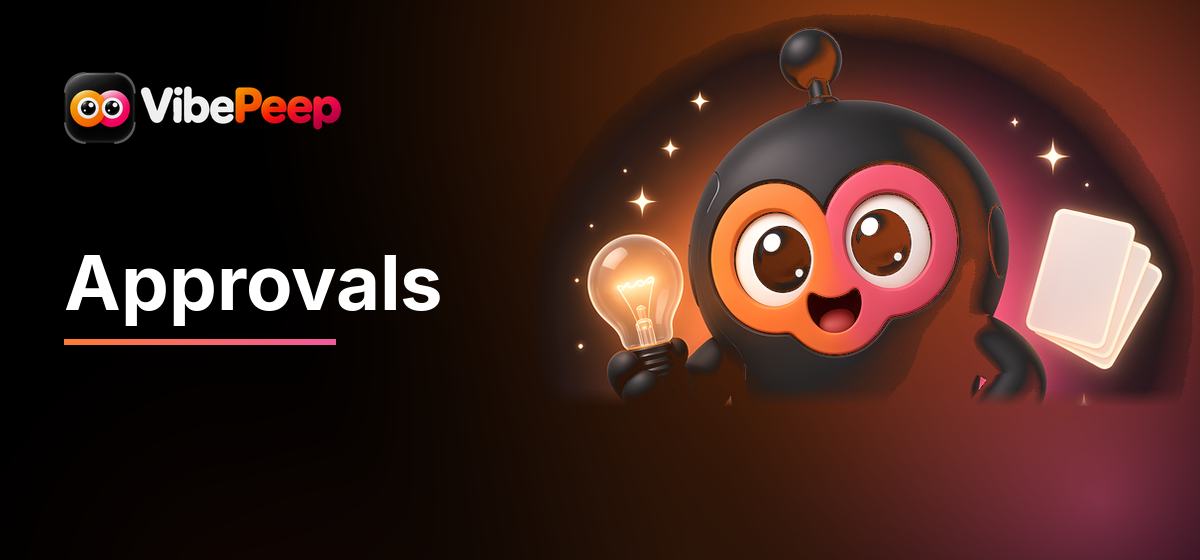
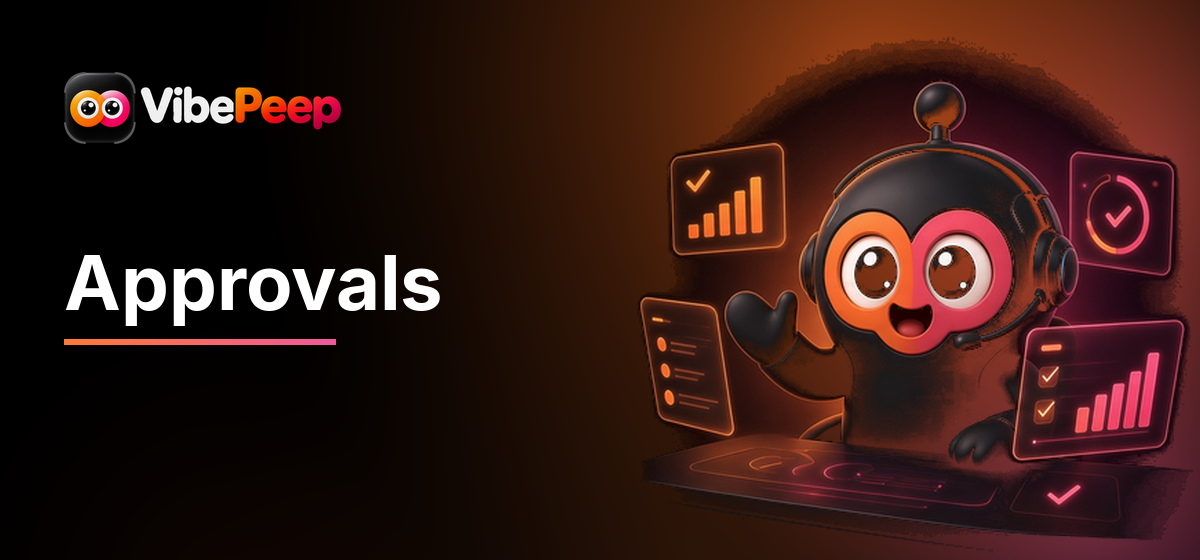
Give Approvals its own mitten-handed Tummer plate.
The ops-digest header no longer borrows the ideas art, and no email type falls back to another plate.

diff --git a/scripts/build-email-headers.py b/scripts/build-email-headers.py
@@ -6,8 +6,8 @@ public/email-headers/. The plate is a black field, a soft orange-to-pink
 glow, the dark VibePeep lockup, that kind's title, and that kind's approved
 Tummer from assets/email-header-source/<kind>.png (props included).
 
-A kind with no plate yet uses PLATE_FALLBACK. Dropping the real file in
-later (for example big-month.png) wins on the next run without a code change.
+Every kind has its own plate. A missing file stops the build.
+Tummer's hands stay rounded mittens. Plates with fingers or a thumbs-up are not used.
 
 The same run writes the footer glow and the small orange fact icons
 (Calendar, Clock, Banknote, MapPin) plus the white social marks.
@@ -25,11 +25,6 @@ ROOT = Path(__file__).resolve().parents[1]
 COPY = ROOT / 'lib' / 'email-header-copy.json'
 SOURCE = ROOT / 'assets' / 'email-header-source'
 LOCKUP = ROOT / 'public' / 'brand' / 'vibepeep-lockup-dark@3x.png'
-# Only when assets/email-header-source/<kind>.png is missing.
-# big-month and general have their own plates. A later file still wins on its own.
-PLATE_FALLBACK = {
-    'ops-digest': 'owner-ideas',
-}
 # Eyes land on this point, at this spacing, unless a prop would leave the frame.
 TARGET_EYE = (900, 248)
 TARGET_EYE_DIST = 148
@@ -78,18 +73,12 @@ def glow_field(width: int, height: int, scale: float = 1.0) -> Image.Image:
     return Image.fromarray(np.clip(canvas, 0, 255).astype(np.uint8), 'RGB')
 
 
-def resolve_plate(kind: str) -> tuple[Path, str | None]:
-    """Own plate wins. Missing files use PLATE_FALLBACK until the art lands."""
+def resolve_plate(kind: str) -> Path:
+    """Each email type uses its own approved plate. Nothing is borrowed."""
     own = SOURCE / f'{kind}.png'
-    if own.exists():
-        return own, None
-    fallback = PLATE_FALLBACK.get(kind)
-    if not fallback:
-        raise SystemExit(f'no approved plate for {kind}')
-    path = SOURCE / f'{fallback}.png'
-    if not path.exists():
-        raise SystemExit(f'{kind} falls back to {fallback}, but {path.name} is missing')
-    return path, fallback
+    if not own.exists():
+        raise SystemExit(f'no approved plate for {kind}: {own}')
+    return own
 
 
 def _flood(gate: np.ndarray) -> np.ndarray:
@@ -425,14 +414,13 @@ def main() -> None:
     HEADERS.mkdir(parents=True, exist_ok=True)
     cache: dict[str, tuple[Image.Image, tuple[float, float] | None, float | None]] = {}
     for kind, headline in headlines.items():
-        plate, fallback = resolve_plate(kind)
+        plate = resolve_plate(kind)
         if plate.name not in cache:
             cache[plate.name] = extract_mascot(plate)
         art, eye_xy, eye_dist = cache[plate.name]
         image = build_header(headline, art, eye_xy, eye_dist, lockup, face)
         save_png(HEADERS / f'{kind}.png', image)
-        via = f' via {fallback}' if fallback else ''
-        print(f'{kind}: {headline}{via}')
+        print(f'{kind}: {headline}')
     save_png(FOOTER, glow_field(1200, 480, scale=1.15))
     icons = {
         'calendar.png': fact_calendar(),
